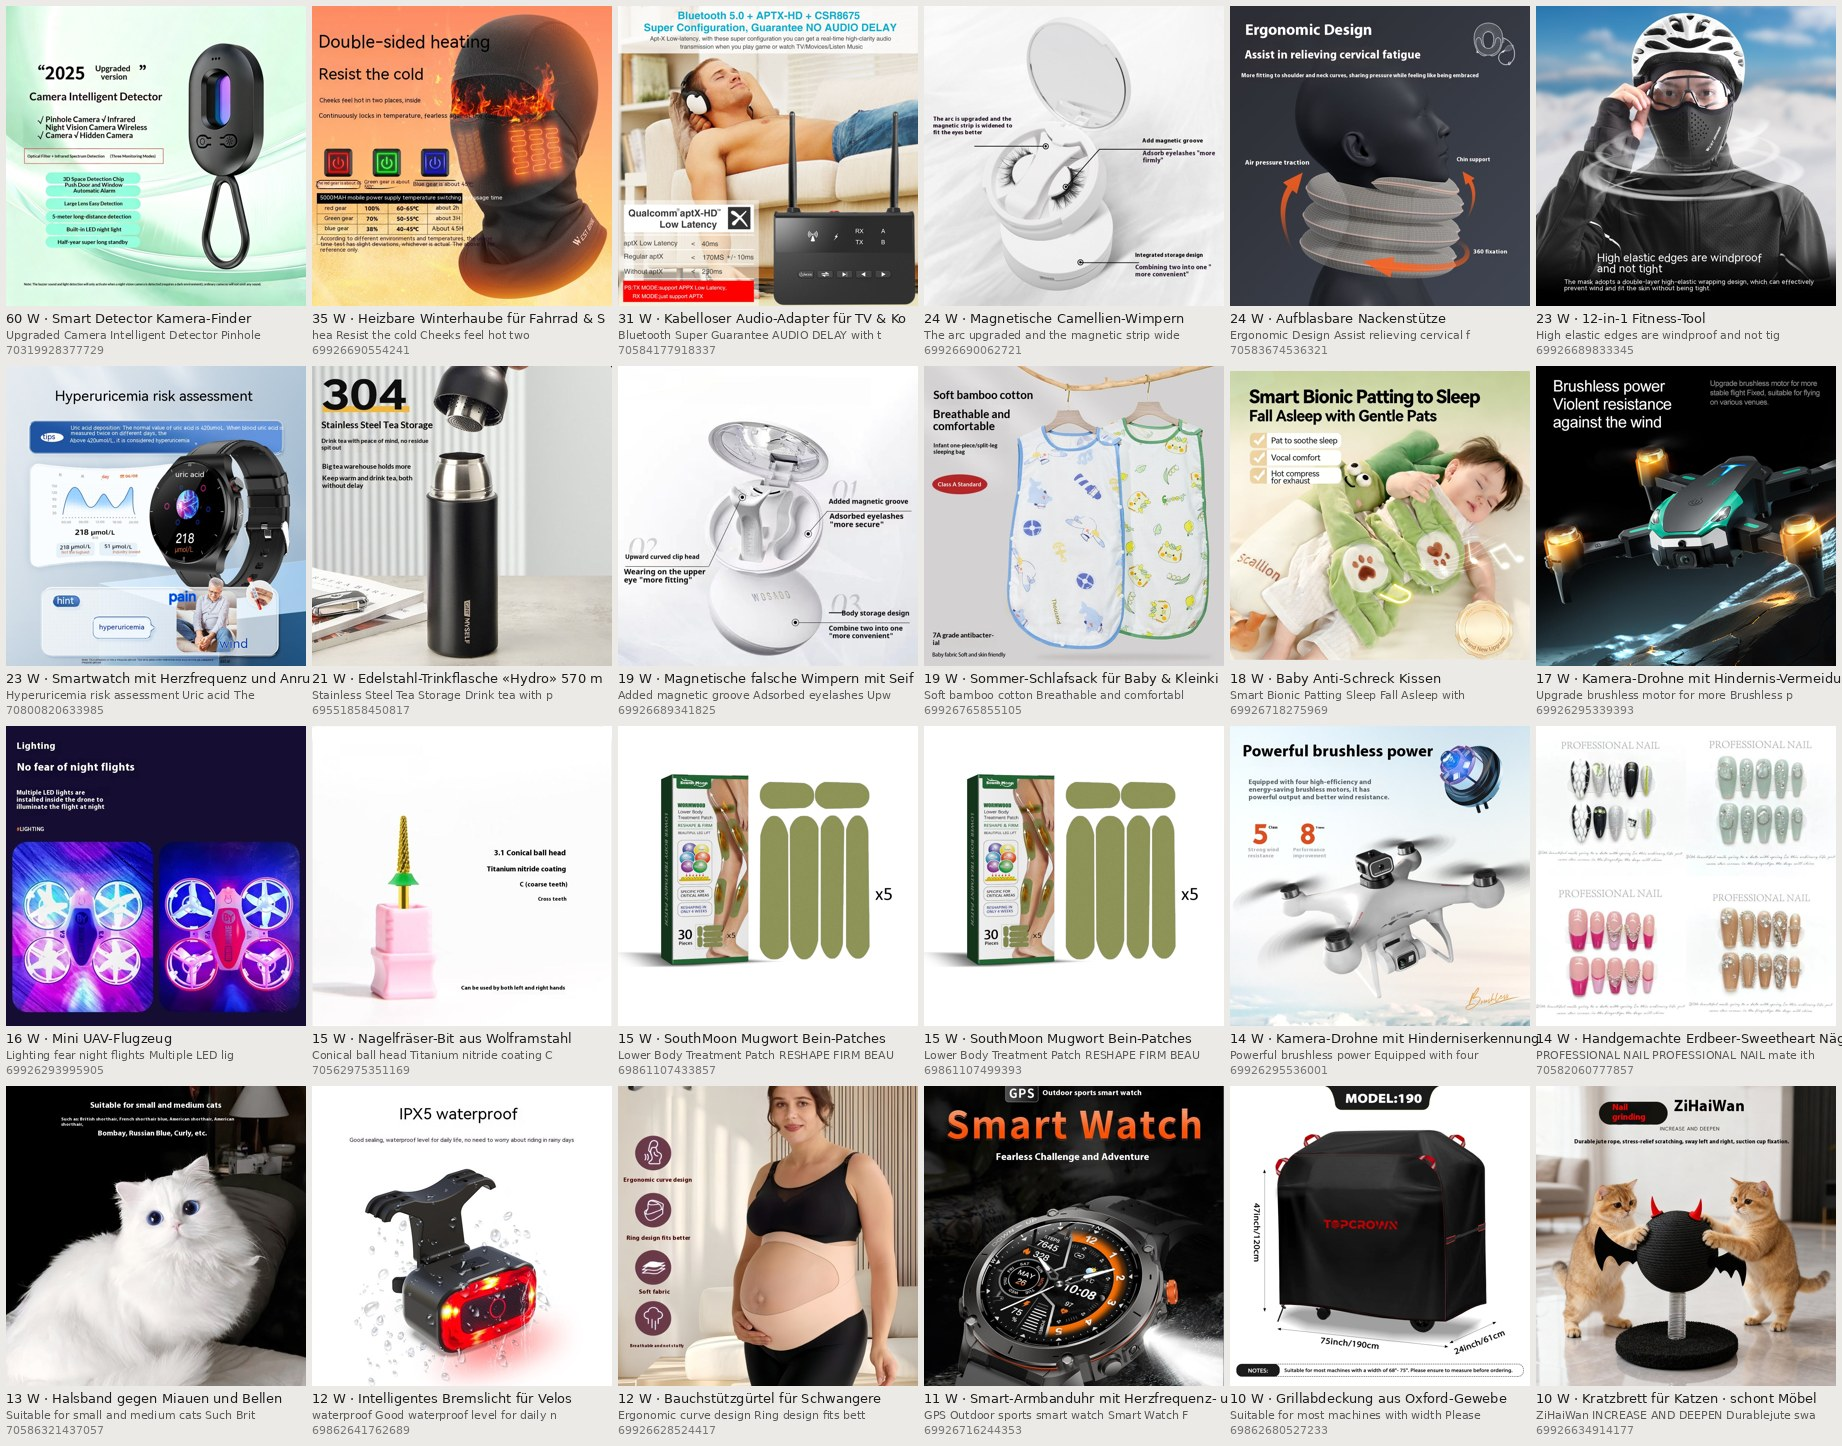
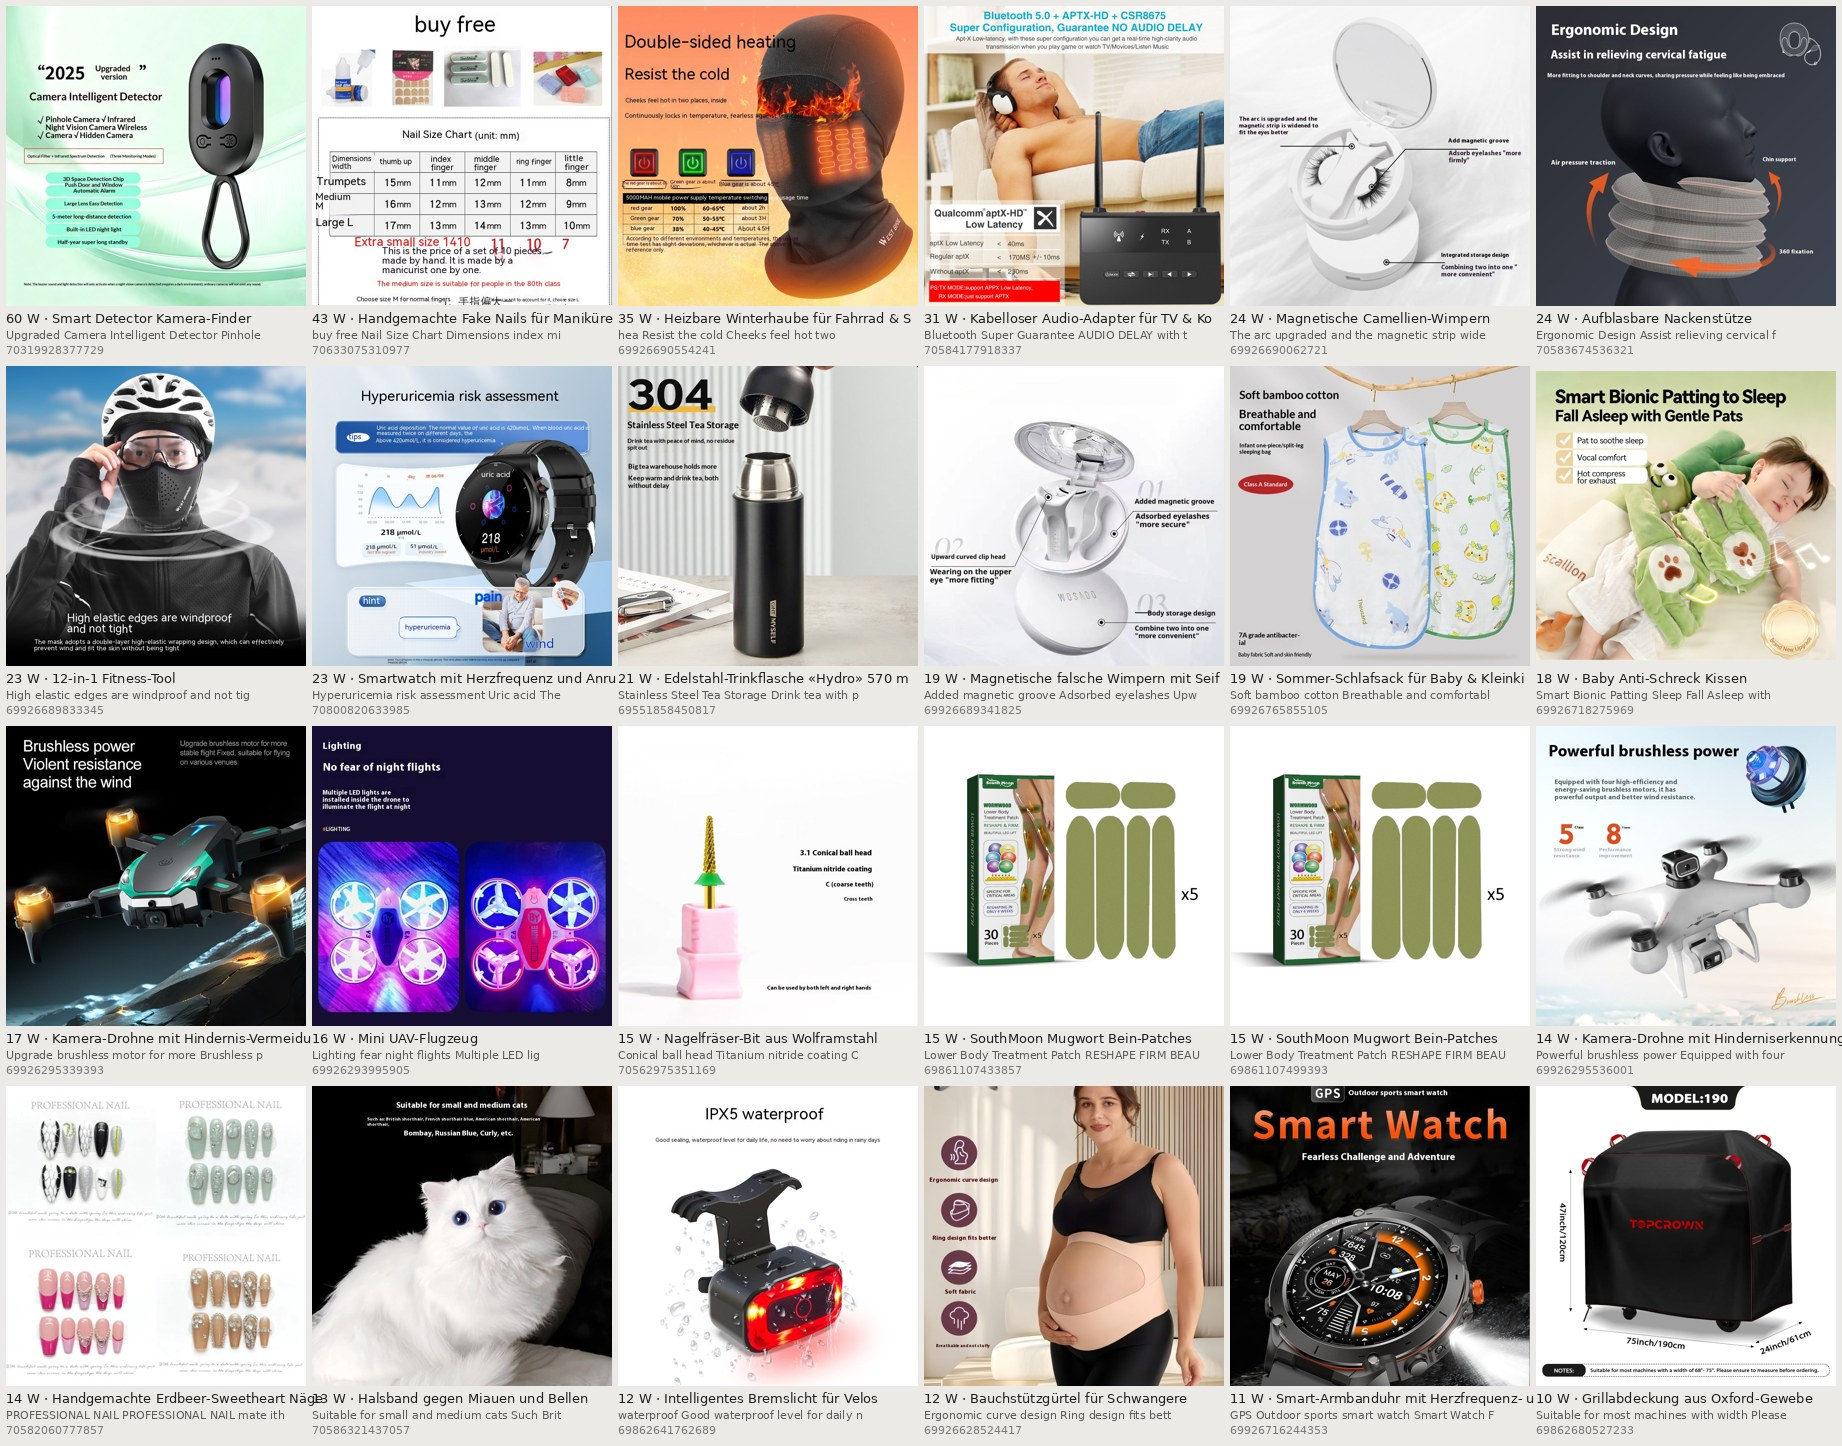
CJ-Ledger auto [skip ci]

diff --git a/dropship/BILD-WERBETEXT.md b/dropship/BILD-WERBETEXT.md
@@ -1,9 +1,9 @@
-# Bild-Werbetext in Nicht-Hauptbildern — Stand 2026-09-30T14:30:42Z
+# Bild-Werbetext in Nicht-Hauptbildern — Stand 2026-09-30T14:33:44Z
 
 Quelle: «+N»-Produkte aus `dropship/_cj_bild_backfill.txt` und (seit 24.09., QUELLE_ART=textbild) die August-Umsortierung `dropship/_textbild_hits.txt` — aktuell gewählt: nachfueller, 1184 Produkte. Geprüft werden nur Bilder ab Position 2, nie das Hauptbild. Messgerät `bildtext_pruefen.woerter()`, Schwelle ≥ 4 sichere Wörter (Tesseract, Konfidenz ≥ 60, mind. 3 Buchstaben).
 
-- Medien geprüft: **2891** in 782 Produkten
-- Treffer (≥ 4 Wörter): **138** in 116 Produkten
+- Medien geprüft: **2982** in 807 Produkten
+- Treffer (≥ 4 Wörter): **139** in 117 Produkten
 - nicht lesbar (−1, wird beim nächsten Lauf erneut versucht): 0
 - entfernt (`_bild_werbetext_entfernt.txt`): **57**
 
@@ -13,6 +13,7 @@ Quelle: «+N»-Produkte aus `dropship/_cj_bild_backfill.txt` und (seit 24.09., Q
 |---|---|---|---|---|
 | Smart Detector Kamera-Finder `15477388476801` | [70319928377729](https://cdn.shopify.com/s/files/1/0943/6856/3585/files/2650e5c6-8afb-4031-ab0a-28cf15e78253_trans.jpg) | 60 | Upgraded Camera Intelligent Detector Pinhole Camera Infrared Night | offen |
 | Edelstahl-Trinkflasche «Hydro» 570 ml `15412899676545` | [69552061284737](https://cdn.shopify.com/s/files/1/0943/6856/3585/files/94a0e0da-1f2f-47ce-ad2f-33ec82e8fea7_water_trans.jpg) | 48 | Convenient advantages are visible open insulated cup operation | ENTFERNT |
+| Handgemachte Fake Nails für Maniküre `15510318940545` | [70633075310977](https://cdn.shopify.com/s/files/1/0943/6856/3585/files/2403080358360323100.jpg) | 43 | buy free Nail Size Chart Dimensions index middle | offen |
 | Heizbare Winterhaube für Fahrrad & Ski `15453769859457` | [69926690554241](https://cdn.shopify.com/s/files/1/0943/6856/3585/files/1722437663757307904.jpg) | 35 | hea Resist the cold Cheeks feel hot two | offen |
 | Velo-Scheinwerfer mit Welleninduktion `15448957223297` | [69862628753793](https://cdn.shopify.com/s/files/1/0943/6856/3585/files/6ec0a3dc-5ff7-4919-9833-ca59f27106b0_trans.jpg) | 34 | Smart gesture sensing Wave sensor lighting switch When | ENTFERNT |
 | Fahrradhelm für sicheres Radfahren `15453769073025` | [69926689276289](https://cdn.shopify.com/s/files/1/0943/6856/3585/files/7069a30b-403b-43cf-9d90-e5b3dbb7eea6_trans.jpg) | 31 | adjust the wrapping floating adjustment system design The | ENTFERNT |
